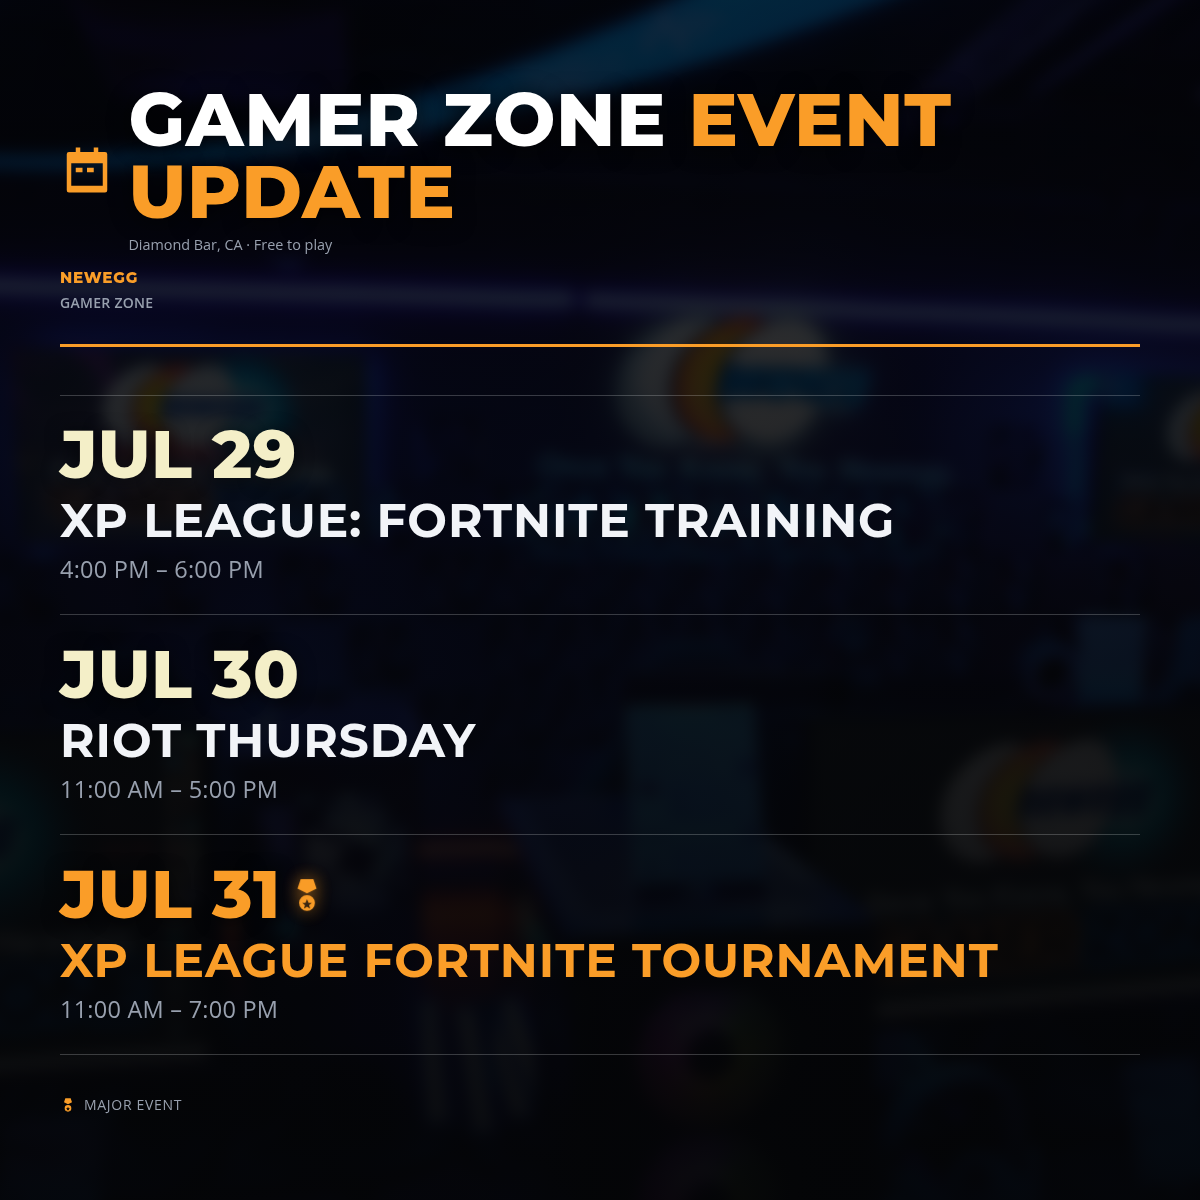
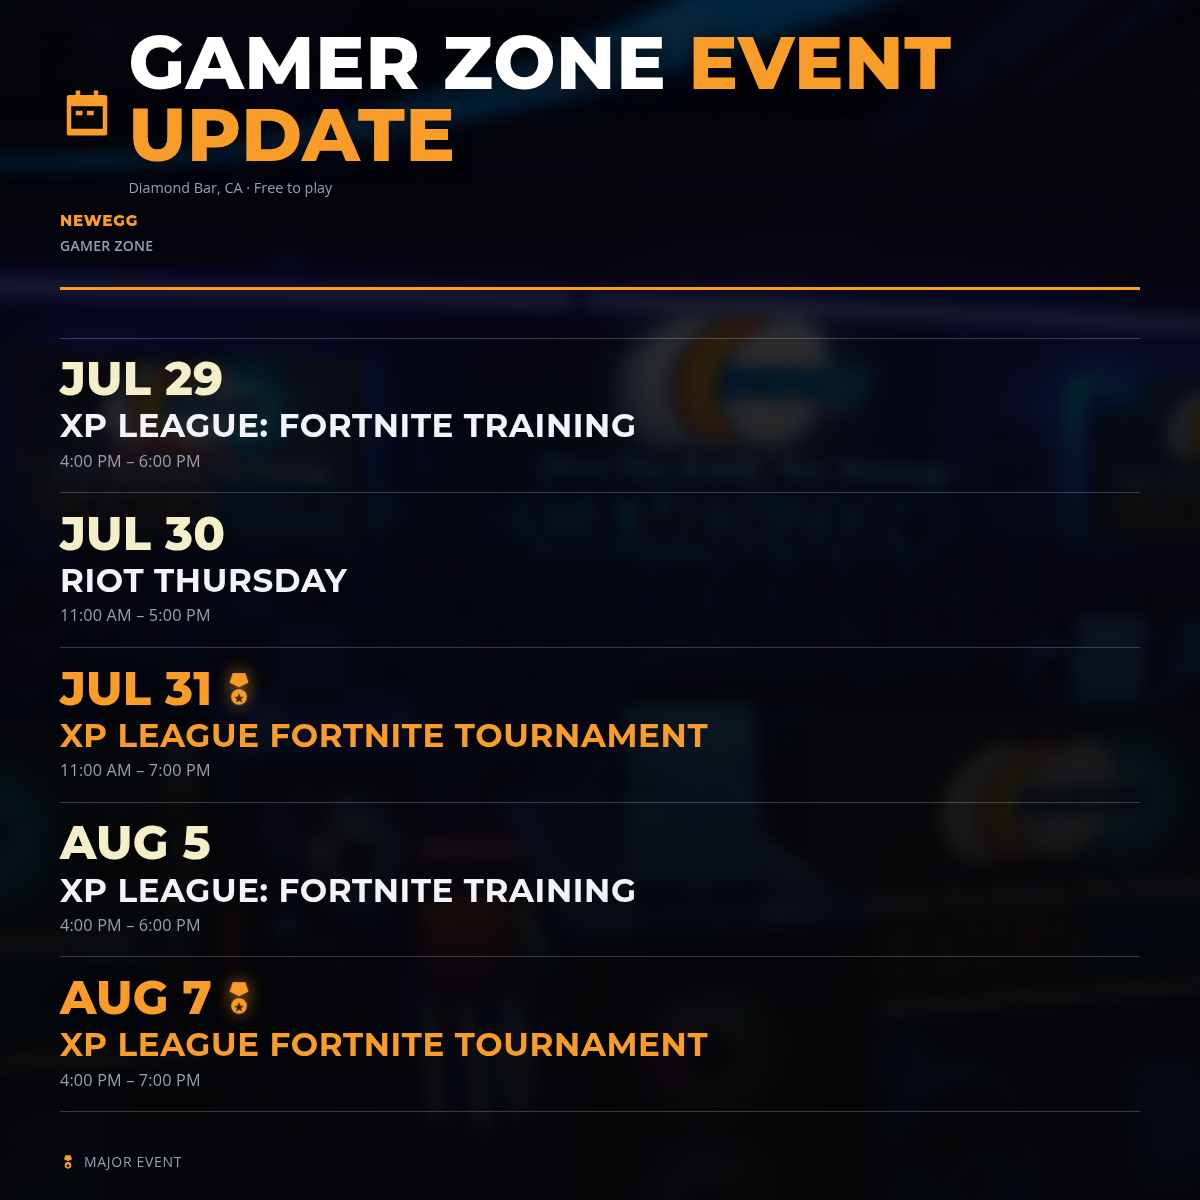
Ambassador copy cleanup + event board + EDU polish
- Ambassador: remove hard 6-month timeline framing everywhere, rename section
  to 'Your Ambassador Journey', mailto fallback hardcoded to gamerzone@newegg.com
- Event Update board: add 2 more upcoming events (now shows 5), shrink date/
  title/subtagline text so a longer list stays readable
- events.html: remove old auto-archive section, replace with a 'Past Events'
  accordion (placeholder photo grids) for major past public events
- Remove Event Update tab from site nav (page still reachable directly, and
  embedded in events.html)
- EDU: Register for Workshops buttons disabled (workshop tracks are closed),
  'Hardware Explorer' -> 'Tech Builder', removed old youthai.newegg.org
  workshop-archive reference, page-scoped blue accent (orange kept only on
  buttons + icons)

Changed region(s): [[0.0308, 0.0308, 0.925, 0.925], [0.0617, 0.9558, 0.0925, 0.9867]]

diff --git a/ambassador.html b/ambassador.html
@@ -23,7 +23,6 @@
       <a href="events.html">Events</a>
       <a href="edu.html">EDU</a>
       <a href="ambassador.html">Ambassador</a>
-      <a href="event-update.html">Event Update</a>
     </nav>
   </div>
   <div class="announcement" id="announcement"></div>
@@ -34,10 +33,10 @@
     <div class="hero-decor" aria-hidden="true"><div class="stripe s1"></div><div class="stripe s2"></div></div>
     <p class="kicker">Host with us</p>
     <h1>Gamer Zone <span class="accent">Ambassadors</span></h1>
-    <p class="lead">Enthusiasts, esports members, and event hosts: run your events at the Newegg Gamer Zone. Bring a crowd, build your community in our room &mdash; and unlock more with every event you host across a 6-month Ambassador journey.</p>
+    <p class="lead">Enthusiasts, esports members, and event hosts: run your events at the Newegg Gamer Zone. Bring a crowd, build your community in our room &mdash; and unlock more with every event you host as an Ambassador.</p>
     <div class="btn-row">
       <a class="btn" href="#" data-amb-open>Apply to become an Ambassador</a>
-      <a class="btn ghost" href="#tiers">See the 6-month journey</a>
+      <a class="btn ghost" href="#tiers">See your Ambassador journey</a>
     </div>
   </section>
 
@@ -54,8 +53,8 @@
   </section>
 
   <section class="reveal" id="tiers">
-    <h2><i data-ic="cal"></i> Your 6-month Ambassador journey</h2>
-    <p class="dim">Tiers unlock based on cumulative events hosted &mdash; no attendee minimums, no monthly deadlines. Host at your own pace over your first 6 months and climb.</p>
+    <h2><i data-ic="cal"></i> Your Ambassador Journey</h2>
+    <p class="dim">Tiers unlock based on cumulative events hosted &mdash; no attendee minimums, no deadlines, no clock running. Host at your own pace and climb.</p>
     <div class="tl">
       <div class="mile"><span class="node">1</span><div class="mo">Tier 1 &middot; 1 event hosted</div><span class="goal">Welcome Ambassador</span><div class="unlock">Your starter package</div><p>Free use of the Zone, priority date booking, a dedicated GZ contact, your events listed on our calendar &amp; socials, and hands-on setup help from GZ staff for every event.</p></div>
       <div class="mile"><span class="node">2</span><div class="mo">Tier 2 &middot; 2 events hosted</div><span class="goal">Prizing unlocked</span><div class="unlock">Newegg gift card prizing</div><p>Newegg gift cards for your event winners.</p></div>
@@ -80,7 +79,7 @@
 
   <section class="reveal">
     <h2><i data-ic="arrow"></i> How it works</h2>
-    <p class="dim">Apply below &mdash; tell us your event type, how many events you can host over 6 months, and your expected attendance. Host at your own pace and climb the tiers as you go &mdash; hit bigger numbers at any single event and stack an attendance bonus on top. Questions? Find us on <a data-cfg-href="discordUrl" href="#">Discord</a> or <a data-cfg-href="instagramUrl" href="#">Instagram</a>.</p>
+    <p class="dim">Apply below &mdash; tell us your event type, how many events you can host, and your expected attendance. Host at your own pace and climb the tiers as you go &mdash; hit bigger numbers at any single event and stack an attendance bonus on top. Questions? Find us on <a data-cfg-href="discordUrl" href="#">Discord</a> or <a data-cfg-href="instagramUrl" href="#">Instagram</a>.</p>
   </section>
 </main>
 
@@ -96,7 +95,7 @@
       <label>Ambassador type <span class="req">*</span></label>
       <select name="type" required><option value="">Select…</option><option>Enthusiast</option><option>Esports member</option><option>Event host</option></select>
       <label>Organization / team (if any)</label><input name="org">
-      <label>How many events can you host over 6 months? <span class="req">*</span></label><input name="events" type="number" min="1" required>
+      <label>How many events can you host? <span class="req">*</span></label><input name="events" type="number" min="1" required>
       <label>Expected attendees per event? <span class="req">*</span></label><input name="attendees" type="number" min="1" required>
       <label>Would you like this event to recur monthly? <span class="req">*</span></label>
       <select name="recurMonthly" required><option value="">Select…</option><option>Yes</option><option>No</option></select>
@@ -104,7 +103,7 @@
       <label>Tell us about your events / community</label><textarea name="about"></textarea>
       <div class="btn-row" style="margin-top:1rem"><button class="btn" type="submit">Send application</button></div>
       <p class="form-note" id="amb-sent" style="display:none;color:var(--ne-orange)">Your email draft is ready in your mail app — hit send and we'll be in touch to set your quota and dates.</p>
-      <p class="form-note">Prefer to reach out directly? Email us and include your events/year and expected attendance.</p>
+      <p class="form-note">Prefer to reach out directly? Email us and include how many events you can host and your expected attendance.</p>
     </form>
   </div>
 </div>

diff --git a/edu.html b/edu.html
@@ -10,8 +10,19 @@
 <link href="https://fonts.googleapis.com/css2?family=Montserrat:wght@700;800&family=Inter:wght@400;600&display=swap" rel="stylesheet">
 <link rel="icon" type="image/png" href="assets/img/favicon.png">
 <link rel="stylesheet" href="assets/css/style.css">
+<style>
+  /* Page-scoped: keep orange only on buttons + icons; everything else (kickers,
+     accent text, badges, links) uses the Newegg blue on this page. */
+  body.edu-page .kicker,
+  body.edu-page h1 .accent,
+  body.edu-page h2 .accent,
+  body.edu-page .track-badge,
+  body.edu-page .site-footer h4 { color: var(--ne-navy-glow); }
+  body.edu-page main a:not(.btn),
+  body.edu-page .site-footer a:not(.btn) { color: var(--ne-navy-glow); }
+</style>
 </head>
-<body>
+<body class="edu-page">
 <div class="geo-bg" aria-hidden="true"></div>
 <header class="site-header">
   <div class="nav-wrap">
@@ -23,7 +34,6 @@
       <a href="events.html">Events</a>
       <a href="edu.html">EDU</a>
       <a href="ambassador.html">Ambassador</a>
-      <a href="event-update.html">Event Update</a>
     </nav>
   </div>
   <div class="announcement" id="announcement"></div>
@@ -35,7 +45,7 @@
     <h1>Learn it. Build it.<br><span class="accent">Play it.</span></h1>
     <p class="lead">Empowering the next generation of creators, programmers, and gamers — hands-on workshops in AI, game design, and PC building, plus pro esports training with XP League. Choose your track and start building something real.</p>
     <div class="btn-row">
-      <a class="btn" href="mailto:gamerzone@newegg.com?subject=Gamer%20Zone%20Workshop%20Registration">Register for workshops</a>
+      <span class="btn is-disabled" aria-disabled="true">Register for workshops</span>
       <a class="btn ghost" href="#esports">Esports training</a>
     </div>
   </section>
@@ -53,7 +63,7 @@
         <p style="margin-top:.9rem"><span class="btn is-disabled" aria-disabled="true">Closed</span></p>
       </div>
       <div class="card hud">
-        <span class="track-badge">Hardware Explorer</span>
+        <span class="track-badge">Tech Builder</span>
         <h3>PC Building 101</h3>
         <p class="dim">Choose parts, assemble, and set up your own PC with GZ staff. High schoolers · 6 sessions.</p>
         <div style="margin-top:.6rem">
@@ -62,7 +72,7 @@
         <p style="margin-top:.9rem"><span class="btn is-disabled" aria-disabled="true">Closed</span></p>
       </div>
     </div>
-    <p class="dim" style="margin-top:.8rem">Previous tracks (AI Beginner and more) live in the <a href="https://youthai.newegg.org/register-lv1">workshop archive</a>. New cohorts announced on this page, <a data-cfg-href="instagramUrl" href="#">Instagram</a>, and <a data-cfg-href="discordUrl" href="#">Discord</a>.</p>
+    <p class="dim" style="margin-top:.8rem">New cohorts announced on this page, <a data-cfg-href="instagramUrl" href="#">Instagram</a>, and <a data-cfg-href="discordUrl" href="#">Discord</a>.</p>
   </section>
 
   <section id="esports" class="reveal">
@@ -89,7 +99,7 @@
     <h2><i data-ic="users"></i> Schools &amp; groups</h2>
     <p class="dim">Bringing a class, team, or youth org? Field trips and private workshop sessions are available — see <a href="index.html">Partners</a> or apply through the <a data-cfg-href="reservationUrl" href="#">event application</a>. Under-18 visitors need an accompanying guardian for regular free play.</p>
     <div class="btn-row" style="margin-top:1rem">
-      <a class="btn" href="mailto:gamerzone@newegg.com?subject=Gamer%20Zone%20Workshop%20Registration">Register for workshops</a>
+      <span class="btn is-disabled" aria-disabled="true">Register for workshops</span>
     </div>
   </section>
 </main>

diff --git a/events.html b/events.html
@@ -23,7 +23,6 @@
       <a href="events.html">Events</a>
       <a href="edu.html">EDU</a>
       <a href="ambassador.html">Ambassador</a>
-      <a href="event-update.html">Event Update</a>
     </nav>
   </div>
   <div class="announcement" id="announcement"></div>
@@ -73,9 +72,31 @@
   </section>
 
   <section class="reveal">
-    <h2><i data-ic="ticket"></i> Archive</h2>
-    <p class="dim">Every past flyer and calendar, preserved automatically. Proof the Zone never sleeps.</p>
-    <div id="calendar-archive" style="margin-top:1rem"></div>
+    <h2><i data-ic="ticket"></i> Past Events</h2>
+    <p class="dim">A look back at some of the major public events we've hosted. Photos drop into each folder as we add them &mdash; check back soon.</p>
+    <div style="margin-top:1rem">
+      <details class="archive-month"><summary>FantasTech LAN Night</summary>
+        <div class="grid cols-3" style="margin-top:1rem">
+          <div class="photo-placeholder"><i data-ic="pc" class="ic ic-lg"></i><p>Photo coming soon</p></div>
+          <div class="photo-placeholder"><i data-ic="pc" class="ic ic-lg"></i><p>Photo coming soon</p></div>
+          <div class="photo-placeholder"><i data-ic="pc" class="ic ic-lg"></i><p>Photo coming soon</p></div>
+        </div>
+      </details>
+      <details class="archive-month"><summary>Asus ROG Showcase</summary>
+        <div class="grid cols-3" style="margin-top:1rem">
+          <div class="photo-placeholder"><i data-ic="pc" class="ic ic-lg"></i><p>Photo coming soon</p></div>
+          <div class="photo-placeholder"><i data-ic="pc" class="ic ic-lg"></i><p>Photo coming soon</p></div>
+          <div class="photo-placeholder"><i data-ic="pc" class="ic ic-lg"></i><p>Photo coming soon</p></div>
+        </div>
+      </details>
+      <details class="archive-month"><summary>XP League Season Finale</summary>
+        <div class="grid cols-3" style="margin-top:1rem">
+          <div class="photo-placeholder"><i data-ic="trophy" class="ic ic-lg"></i><p>Photo coming soon</p></div>
+          <div class="photo-placeholder"><i data-ic="trophy" class="ic ic-lg"></i><p>Photo coming soon</p></div>
+          <div class="photo-placeholder"><i data-ic="trophy" class="ic ic-lg"></i><p>Photo coming soon</p></div>
+        </div>
+      </details>
+    </div>
   </section>
 </main>
 
@@ -89,7 +110,9 @@
     { "id": "xp-fortnite-tournament-2026-07-24", "title": "XP League Fortnite Tournament", "date": "2026-07-24", "time": "4:00 PM – 7:00 PM", "type": "tournament", "featured": true },
     { "id": "xp-fortnite-training-2026-07-29", "title": "XP League: Fortnite Training", "date": "2026-07-29", "time": "4:00 PM – 6:00 PM", "type": "edu", "featured": false },
     { "id": "riot-thursday-2026-07-30", "title": "Riot Thursday", "date": "2026-07-30", "time": "11:00 AM – 5:00 PM", "type": "theme-night", "featured": false },
-    { "id": "xp-fortnite-tournament-2026-07-31", "title": "XP League Fortnite Tournament", "date": "2026-07-31", "time": "11:00 AM – 7:00 PM", "type": "major", "featured": true }
+    { "id": "xp-fortnite-tournament-2026-07-31", "title": "XP League Fortnite Tournament", "date": "2026-07-31", "time": "11:00 AM – 7:00 PM", "type": "major", "featured": true },
+    { "id": "xp-fortnite-training-2026-08-05", "title": "XP League: Fortnite Training", "date": "2026-08-05", "time": "4:00 PM – 6:00 PM", "type": "edu", "featured": false },
+    { "id": "xp-fortnite-tournament-2026-08-07", "title": "XP League Fortnite Tournament", "date": "2026-08-07", "time": "4:00 PM – 7:00 PM", "type": "tournament", "featured": true }
   ]
 }
 </script>

diff --git a/assets/css/style.css b/assets/css/style.css
@@ -137,6 +137,9 @@ body.has-tiles .geo-bg { display: block; }
 details.archive-month { background: var(--bg-2); border: 1px solid var(--line); clip-path: var(--clip); padding: .9rem 1.1rem; margin-bottom: .7rem; }
 details.archive-month summary { cursor: pointer; font-family: var(--head); font-weight: 700; text-transform: uppercase; font-size: .9rem; letter-spacing: .04em; }
 details.archive-month .grid { margin-top: 1rem; }
+.photo-placeholder { aspect-ratio: 4/3; border: 2px dashed var(--line); background: var(--bg-2); display: flex; flex-direction: column; align-items: center; justify-content: center; gap: .5rem; color: var(--ink-dim); text-align: center; }
+.photo-placeholder .ic { opacity: .6; }
+.photo-placeholder p { font-size: .78rem; text-transform: uppercase; letter-spacing: .04em; font-family: var(--head); font-weight: 700; }
 .lightbox { position: fixed; inset: 0; background: rgba(0,0,0,.92); display: none; align-items: center; justify-content: center; z-index: 100; cursor: zoom-out; padding: 1rem; }
 .lightbox.open { display: flex; }
 .lightbox img { max-height: 92vh; object-fit: contain; }
@@ -360,7 +363,7 @@ a.btn:hover{box-shadow:0 6px 20px rgba(250,157,40,.25)}
    hold — event title = 70% of date (30% smaller), subtagline = 50% of title —
    with a hard 14px floor on every text size on this board, per spec. */
 .eu-board{
-  --eu-date-size: clamp(1.9rem, 6.4vw, 4.6rem);
+  --eu-date-size: clamp(1.5rem, 4.6vw, 3.2rem);
   --eu-name-size: max(14px, calc(var(--eu-date-size) * 0.70));
   --eu-meta-size: max(14px, calc(var(--eu-name-size) * 0.50));
   position:relative;margin:0 calc(-1 * var(--safe-x));padding:clamp(2.2rem,6vw,4.5rem) var(--safe-x);overflow:hidden;isolation:isolate;min-height:640px;display:flex;flex-direction:column;justify-content:center}
@@ -429,13 +432,13 @@ html.board-mode section.eu-section{margin:0}
 html.board-mode .eu-board{margin:0;width:100vw;height:100vh;min-height:100vh;padding:clamp(1.6rem,5vw,4.5rem)}
 html.board-mode .reveal{opacity:1;transform:none}
 @media (max-aspect-ratio: 6/5){
-  html.board-mode .eu-board{--eu-date-size: clamp(2.4rem, 10vw, 4.2rem)}
+  html.board-mode .eu-board{--eu-date-size: clamp(1.7rem, 7vw, 2.9rem)}
   html.board-mode .eu-top{flex-direction:column;align-items:flex-start;gap:.6rem}
   html.board-mode .eu-brand{text-align:left}
-  html.board-mode .eu-row{flex-direction:column;align-items:flex-start;gap:.3rem;padding:clamp(1rem,3vw,1.6rem) 0}
+  html.board-mode .eu-row{flex-direction:column;align-items:flex-start;gap:.3rem;padding:clamp(.7rem,2.2vw,1.1rem) 0}
   html.board-mode .eu-info{text-align:left}
 }
 @media (min-aspect-ratio: 3/2){
-  html.board-mode .eu-board{--eu-date-size: clamp(2.6rem, 5.2vw, 5.4rem)}
+  html.board-mode .eu-board{--eu-date-size: clamp(1.8rem, 3.6vw, 3.7rem)}
   html.board-mode .eu-eyebrow-title{font-size:clamp(2.2rem,5.6vw,4.8rem)}
 }

diff --git a/event-update.html b/event-update.html
@@ -28,7 +28,6 @@
       <a href="events.html">Events</a>
       <a href="edu.html">EDU</a>
       <a href="ambassador.html">Ambassador</a>
-      <a href="event-update.html">Event Update</a>
     </nav>
   </div>
   <div class="announcement" id="announcement"></div>
@@ -70,7 +69,9 @@
     { "id": "xp-fortnite-tournament-2026-07-24", "title": "XP League Fortnite Tournament", "date": "2026-07-24", "time": "4:00 PM – 7:00 PM", "type": "tournament", "featured": true },
     { "id": "xp-fortnite-training-2026-07-29", "title": "XP League: Fortnite Training", "date": "2026-07-29", "time": "4:00 PM – 6:00 PM", "type": "edu", "featured": false },
     { "id": "riot-thursday-2026-07-30", "title": "Riot Thursday", "date": "2026-07-30", "time": "11:00 AM – 5:00 PM", "type": "theme-night", "featured": false },
-    { "id": "xp-fortnite-tournament-2026-07-31", "title": "XP League Fortnite Tournament", "date": "2026-07-31", "time": "11:00 AM – 7:00 PM", "type": "major", "featured": true }
+    { "id": "xp-fortnite-tournament-2026-07-31", "title": "XP League Fortnite Tournament", "date": "2026-07-31", "time": "11:00 AM – 7:00 PM", "type": "major", "featured": true },
+    { "id": "xp-fortnite-training-2026-08-05", "title": "XP League: Fortnite Training", "date": "2026-08-05", "time": "4:00 PM – 6:00 PM", "type": "edu", "featured": false },
+    { "id": "xp-fortnite-tournament-2026-08-07", "title": "XP League Fortnite Tournament", "date": "2026-08-07", "time": "4:00 PM – 7:00 PM", "type": "tournament", "featured": true }
   ]
 }
 </script>

diff --git a/assets/js/ambassador.js b/assets/js/ambassador.js
@@ -3,7 +3,7 @@ document.addEventListener('DOMContentLoaded', async () => {
   const bg = document.getElementById('amb-modal');
   if (!bg) return;
   const cfg = await GZ.config();
-  const to = cfg.ambassadorEmail || cfg.contactEmail || '';
+  const to = cfg.ambassadorEmail || cfg.contactEmail || 'gamerzone@newegg.com';
   const open = () => bg.classList.add('open');
   const close = () => bg.classList.remove('open');
   document.querySelectorAll('[data-amb-open]').forEach(b => b.addEventListener('click', e => { e.preventDefault(); open(); }));

diff --git a/index.html b/index.html
@@ -23,7 +23,6 @@
       <a href="events.html">Events</a>
       <a href="edu.html">EDU</a>
       <a href="ambassador.html">Ambassador</a>
-      <a href="event-update.html">Event Update</a>
     </nav>
   </div>
   <div class="announcement" id="announcement"></div>
